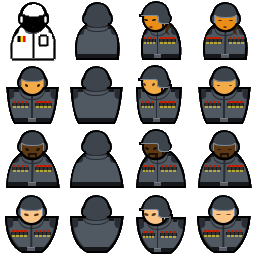
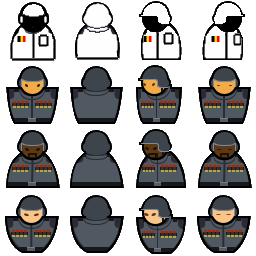
Added direction to the character

Changed region(s): [[0.7812, 0.0, 0.9688, 0.25], [0.2812, 0.0, 0.4688, 0.25], [0.5312, 0.0, 0.7188, 0.25]]

diff --git a/Assets/Scripts/Models/Character.cs b/Assets/Scripts/Models/Character.cs
@@ -6,6 +6,7 @@ using UnityEngine;
 using System.Security.Cryptography;
 using UnityEngine.Monetization;
 using System.Runtime.CompilerServices;
+using System.Globalization;
 
 #region Events
 
@@ -18,6 +19,8 @@ public class CharacterCreatedEvent : CharacterEvent { }
 
 public class CharacterUpdatedEvent : CharacterEvent
 {
+  public CharacterDirection Direction { get; set; }
+
   public bool Hand { get; internal set; }
 }
 
@@ -43,7 +46,13 @@ public enum CharacterState
   GotoJobTile,
   Constructing,
 }
-
+public enum CharacterDirection
+{
+  North,
+  East,
+  South,
+  West
+}
 
 public class Character : ObjectBase
 {
@@ -54,6 +63,7 @@ public class Character : ObjectBase
   private Stack<Tile> _path = null;
 
   private CharacterState _currentState;
+  private CharacterDirection _characterDirection = CharacterDirection.South;
 
   #endregion
 
@@ -74,7 +84,14 @@ public class Character : ObjectBase
   {
     get
     {
-      return Mathf.Lerp(CurrentTile.Position.x, NextTile.Position.x, _movementCompletePercentage);
+      if (NextTile != null)
+      {
+        return Mathf.Lerp(CurrentTile.Position.x, NextTile.Position.x, _movementCompletePercentage);
+      }
+      else
+      {
+        return CurrentTile.Position.x;
+      }
     }
   }
 
@@ -82,7 +99,14 @@ public class Character : ObjectBase
   {
     get
     {
-      return Mathf.Lerp(CurrentTile.Position.y, NextTile.Position.y, _movementCompletePercentage);
+      if (NextTile != null)
+      {
+        return Mathf.Lerp(CurrentTile.Position.y, NextTile.Position.y, _movementCompletePercentage);
+      }
+      else
+      {
+        return CurrentTile.Position.y;
+      }
     }
   }
 
@@ -140,6 +164,7 @@ public class Character : ObjectBase
         //  nothing to do 
         MoveIdle();
         break;
+
       case CharacterState.WanderAround:
         if (CurrentTile == DestinationTile)
         {
@@ -199,7 +224,7 @@ public class Character : ObjectBase
       case CharacterState.DropDelivery:
 
         Log("DropDelivery");
-        IoC.Get<World>().GetInventory().AddOrderResourceToInventory(CurrentJob.Delivery);        
+        IoC.Get<World>().GetInventory().AddOrderResourceToInventory(CurrentJob.Delivery);
         CurrentJob.Tile.ResourcePile = CurrentJob.Delivery;
         new BuildingResourceUpdatedEvent { Resource = CurrentJob.Delivery }.Publish();
 
@@ -213,7 +238,7 @@ public class Character : ObjectBase
       case CharacterState.SelectResourcePile:
 
         SelectedResourcePile = IoC.Get<InventoryController>().ReserveResourcePile(CurrentJob.Item);
-        
+
         if (SelectedResourcePile != null)
         {
           SetState(CharacterState.GotoResourcePile);
@@ -285,13 +310,13 @@ public class Character : ObjectBase
         else
         {
           //  animate handes
-          _handMovement += 0.03f;
+          _handMovement += 0.01f;
           if (_handMovement > 1.0f)
           {
             _handMovement = 0f;
           }
 
-          new CharacterUpdatedEvent { Character = this, Hand = true }.Publish();
+          new CharacterUpdatedEvent { Character = this, Hand = true, Direction = _characterDirection }.Publish();
         }
 
         break;
@@ -329,6 +354,8 @@ public class Character : ObjectBase
         if (_path != null && _path.Count > 0)
         {
           NextTile = _path.Pop();
+
+          UpdateDirection();
         }
         else
         {
@@ -339,10 +366,8 @@ public class Character : ObjectBase
     else
     {
       //  Arrived
-
       DestinationTile = null;
-
-
+      UpdateDirection();
     }
 
     //  Enter behaviour
@@ -374,9 +399,39 @@ public class Character : ObjectBase
       }
       else
       {
-        IoC.Get<EventAggregator>().Publish(new CharacterUpdatedEvent { Character = this });
+        new CharacterUpdatedEvent { Character = this, Direction = _characterDirection }.Publish();
       }
     }
+  }
+
+  private void UpdateDirection()
+  {
+    if (NextTile == null)
+    {
+      //  default face to player
+      _characterDirection = CharacterDirection.South;
+    }
+    else
+    {
+      if (NextTile == CurrentTile.GetNorthTile())
+      {
+        _characterDirection = CharacterDirection.North;
+      }
+      else if (NextTile == CurrentTile.GetSouthTile())
+      {
+        _characterDirection = CharacterDirection.South;
+      }
+      else if (NextTile == CurrentTile.GetWestTile())
+      {
+        _characterDirection = CharacterDirection.West;
+      }
+      else
+      {
+        _characterDirection = CharacterDirection.East;
+      }
+    }
+
+    new CharacterUpdatedEvent { Character = this, Direction = _characterDirection }.Publish();
   }
 
   public void AssignJob(Job job)
@@ -408,7 +463,9 @@ public class Character : ObjectBase
     if (tile.Type != TileType.Space)
     {
       //  Need to find path to
-      var pathfinder = new PathFinding();
+      //  if we are on our way to the docking, allow the pathfinding to walk over TileType.Docking tiles
+      //
+      var pathfinder = new PathFinding(_currentState == CharacterState.GotoPickUpTile);
       _path = pathfinder.FindPath(CurrentTile, tile);
 
       if (_path != null)

diff --git a/Assets/Scripts/Controllers/CharacterController.cs b/Assets/Scripts/Controllers/CharacterController.cs
@@ -61,7 +61,7 @@ public class CharacterController : MonoBehaviour
     characterInfo.main.transform.SetParent(this.transform, true);
 
     var renderer = characterInfo.main.AddComponent<SpriteRenderer>();
-    renderer.sprite = _resourceCollection.GetSprite("Astronaut_B");
+    renderer.sprite = _resourceCollection.GetSprite("Astronaut_B_South");
     renderer.sortingLayerName = "Character";
 
     //  create hand object
@@ -81,15 +81,25 @@ public class CharacterController : MonoBehaviour
   {
     // find game object
     var info = _characterGraphics[message.Character];
-    if (message.Hand)
+    try
     {
-      info.hand.transform.position = new Vector3(info.hand.transform.position.x, message.Character.HandY, -1);
+      if (message.Hand)
+      {
+        info.hand.SetActive(true);
+        info.main.GetComponent<SpriteRenderer>().sprite = _resourceCollection.GetSprite($"Astronaut_B_{message.Direction}");
+        info.hand.transform.position = new Vector3(info.hand.transform.position.x, message.Character.HandY, -1);
+      }
+      else
+      {
+        info.hand.SetActive(false);
+        info.main.GetComponent<SpriteRenderer>().sprite = _resourceCollection.GetSprite($"Astronaut_B_{message.Direction}");
+        info.main.transform.position = new Vector3(message.Character.X, message.Character.Y, 0);
+      }
     }
-    else
+    catch (System.Exception e)
     {
-      info.main.transform.position = new Vector3(message.Character.X, message.Character.Y, 0);
-    }
-
+      Debug.LogError(e.Message);
+    }    
   }
 
   #endregion

diff --git a/Assets/Scripts/Core/PathFinding.cs b/Assets/Scripts/Core/PathFinding.cs
@@ -22,14 +22,14 @@ public class PathFinding
   Node[,] _grid;
 
 
-  public PathFinding()
+  public PathFinding(bool allowDocking = false)
   {
     _world = IoC.Get<WorldController>().GetWorld();
 
-    CreateGrid();
+    CreateGrid(allowDocking);
   }
 
-  private void CreateGrid()
+  private void CreateGrid(bool allowDocking)
   {
     _grid = new Node[_world.Width, _world.Height];
 
@@ -41,8 +41,10 @@ public class PathFinding
         _grid[x, y] = new Node
         {
           Tile = tile,
-          Walkable = (tile.Type == TileType.Floor || tile.Type == TileType.Delivery )&&
-                    (tile.Item == null || tile.Item.MovementCost != 0),
+          Walkable = (tile.Type == TileType.Floor || 
+                      tile.Type == TileType.Delivery ||
+                      (allowDocking && tile.Type == TileType.Docking)) &&
+                      (tile.Item == null || tile.Item.MovementCost != 0),
           mCost = tile.Item?.MovementCost ?? 1f    
         };
       }

diff --git a/Assets/Scripts/Controllers/ShipmentController.cs b/Assets/Scripts/Controllers/ShipmentController.cs
@@ -140,9 +140,6 @@ public class ShipmentController : BaseController
 
         Log("All resources are picked up");
         _currentState = State.UnDocking;
-
-        //  TODO path finding issue
-        _dockedTile.SetType(TileType.Docking);
       }
     }
   }
@@ -181,9 +178,6 @@ public class ShipmentController : BaseController
     {
       Log("Docking Finished");
       _currentState = State.Docked;
-
-      //  TODO path finding issue
-      _dockedTile.SetType(TileType.Floor);
     }
   }
 
